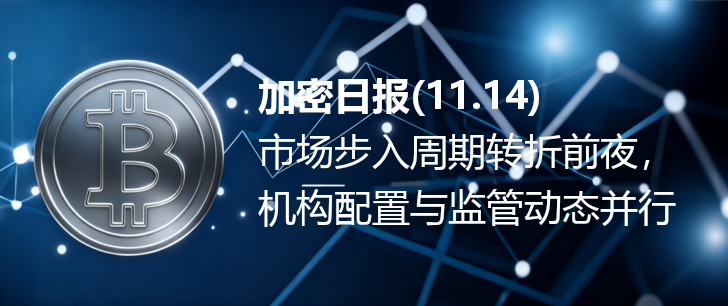
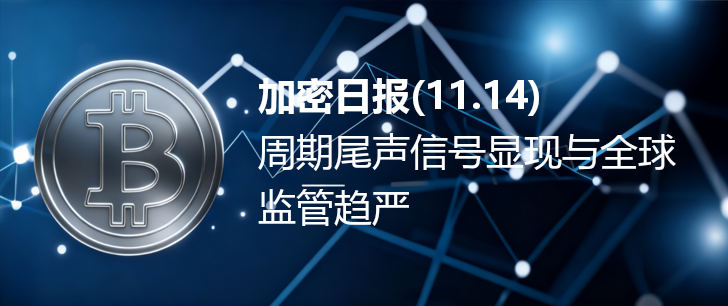
daily_news

Changed region(s): [[0.3324, 0.6176, 0.9368, 0.7353], [0.3324, 0.4412, 0.9368, 0.5588]]

diff --git a/files/latest_summary.md b/files/latest_summary.md
@@ -1,28 +1,25 @@
-### 一、比特币市场周期分析与机构配置建议
+### 一、市场分析与周期预测
 **总结**：
-1. 摩根士丹利认为当前加密货币周期处于秋季尾声，或即将迎来转折，秋季象征获利时机，预计11月30日前后结束，宏观层面M2货币供应周期与比特币价格高度相关，建议投资者根据风险偏好配置0-4%加密货币资产。
-2. 该分析基于季节模型，结合宏观经济指标（如M2货币供应）和监管进展（如《天才法案》规范稳定币），指出机构投资者参与度提升是市场重要变化。
+1. 摩根士丹利认为加密货币周期处于“秋季”尾声，宏观层面与M2货币供应周期高度相关，秋季通常在11月30日前后结束，机构建议投资者配置0-4%的加密货币资产。
+2. 当前比特币价格维持在10万美元关口，市场恐惧与贪婪指数降至15，创半年新低，零售投资者已离场，分析师认为关键利益相关者可能收购抛售币种并推动价格上涨。
 **参考**：
 - [大摩：比特币正处于「秋季」尾声 加密货币周期或将迎来转折](https://cryptonews.com/cn/news/morgan-stanley-bitcoin-is-nearing-the-end-of-autumn/)
+- [比特币维持10万美元关口，市场恐惧指数降至15创半年新低](https://www.binance.com/zh-CN/square/post/32335676392050)
 
-### 二、比特币机构持仓与采用进展
+---
+
+### 二、机构与企业采用
 **总结**：
-1. 埃默里大学通过Grayscale产品增加比特币持仓，涉及5200万美元投资，显示机构对加密货币的持续配置意愿，进一步推动比特币纳入传统投资组合。
-2. 该机构采用案例反映了加密货币在机构资产配置中的接受度提升，与监管框架明朗化（如ETF进展）共同促进市场发展。
+1. 埃默里大学增加比特币持仓，投入5200万美元通过灰度比特币产品配置，体现机构对加密货币的持续采用，降低了机构投资者参与门槛。
 **参考**：
 - [比特币（BTC）采用新闻：埃默里大学增加持仓](https://www.coindesk.com/zh/markets/2025/11/13/emory-doubles-down-on-bitcoin-with-usd52m-grayscale-bet)
 
-### 三、比特币价格震荡与市场情绪变化
-**总结**：
-1. 比特币价格维持在10万美元关口，市场恐惧与贪婪指数降至15/100，处于极度恐惧区，为半年新低，反映零售投资者离场迹象，市场情绪接近转折点。
-2. 尽管美国政府停摆结束对市场影响有限，但市场对流动性和宏观经济的担忧仍主导情绪，分析师认为关键利益相关者可能收购抛售币种推动价格上涨。
-**参考**：
-- [比特币维持10万美元关口，市场恐惧指数降至15创半年新低](https://www.binance.com/zh-CN/square/post/32335676392050)
+---
 
-### 四、数字资产国库（DAT）公司监管与行业动态
+### 三、数字资产国库（DAT）公司监管与解析
 **总结**：
-1. 日本拟推行对数字资产国库（DAT）公司的额外审计和收紧借壳上市规则，以加强监管，防范市场风险，类似Metaplanet等DAT公司因高波动资产持仓导致股价下跌的案例引发监管关注。
-2. 针对顾问的解析指出，DAT公司作为公开上市公司通过持有加密货币提供敞口，但存在溢价/折价、杠杆使用和监管风险，与现货ETF对比显示其结构差异和风险特征。
+1. 日本拟收紧对数字资产国库（DAT）公司的监管，推行额外审计、收紧借壳上市规则，以提高财报透明度、保护投资者利益，此前多家DAT公司因重仓比特币导致股价大幅下跌。
+2. 数字资产国库（DAT）公司作为公开上市公司，通过持有大量加密货币并尝试杠杆操作提升股东价值，顾问评估时需关注国库组合透明度、杠杆水平及溢价/折价情况，与现货ETF相比风险更高，溢价波动可能导致股价大幅变动。
 **参考**：
 - [亚洲地区收紧DAT公司监管日本拟推行额外审计、收紧借壳上市规则](https://cryptonews.com/cn/news/asia-tightens-dat-oversight-japan-extra-audits-backdoor-listing-rules/)
 - [为顾问提供的加密货币：数字资产金库](https://www.coindesk.com/zh/coindesk-indices/2025/11/12/crypto-for-advisors-digital-asset-treasuries)

diff --git a/files/latest_summary_cleaned.md b/files/latest_summary_cleaned.md
@@ -1,12 +1,10 @@
-### 一、比特币市场周期分析与机构配置建议
-1. 摩根士丹利认为当前加密货币周期处于秋季尾声，或即将迎来转折，秋季象征获利时机，预计11月30日前后结束，宏观层面M2货币供应周期与比特币价格高度相关，建议投资者根据风险偏好配置0-4%加密货币资产。
-2. 该分析基于季节模型，结合宏观经济指标（如M2货币供应）和监管进展（如《天才法案》规范稳定币），指出机构投资者参与度提升是市场重要变化。
-### 二、比特币机构持仓与采用进展
-1. 埃默里大学通过Grayscale产品增加比特币持仓，涉及5200万美元投资，显示机构对加密货币的持续配置意愿，进一步推动比特币纳入传统投资组合。
-2. 该机构采用案例反映了加密货币在机构资产配置中的接受度提升，与监管框架明朗化（如ETF进展）共同促进市场发展。
-### 三、比特币价格震荡与市场情绪变化
-1. 比特币价格维持在10万美元关口，市场恐惧与贪婪指数降至15/100，处于极度恐惧区，为半年新低，反映零售投资者离场迹象，市场情绪接近转折点。
-2. 尽管美国政府停摆结束对市场影响有限，但市场对流动性和宏观经济的担忧仍主导情绪，分析师认为关键利益相关者可能收购抛售币种推动价格上涨。
-### 四、数字资产国库（DAT）公司监管与行业动态
-1. 日本拟推行对数字资产国库（DAT）公司的额外审计和收紧借壳上市规则，以加强监管，防范市场风险，类似Metaplanet等DAT公司因高波动资产持仓导致股价下跌的案例引发监管关注。
-2. 针对顾问的解析指出，DAT公司作为公开上市公司通过持有加密货币提供敞口，但存在溢价/折价、杠杆使用和监管风险，与现货ETF对比显示其结构差异和风险特征。
+### 一、市场分析与周期预测
+1. 摩根士丹利认为加密货币周期处于“秋季”尾声，宏观层面与M2货币供应周期高度相关，秋季通常在11月30日前后结束，机构建议投资者配置0-4%的加密货币资产。
+2. 当前比特币价格维持在10万美元关口，市场恐惧与贪婪指数降至15，创半年新低，零售投资者已离场，分析师认为关键利益相关者可能收购抛售币种并推动价格上涨。
+
+### 二、机构与企业采用
+1. 埃默里大学增加比特币持仓，投入5200万美元通过灰度比特币产品配置，体现机构对加密货币的持续采用，降低了机构投资者参与门槛。
+
+### 三、数字资产国库（DAT）公司监管与解析
+1. 日本拟收紧对数字资产国库（DAT）公司的监管，推行额外审计、收紧借壳上市规则，以提高财报透明度、保护投资者利益，此前多家DAT公司因重仓比特币导致股价大幅下跌。
+2. 数字资产国库（DAT）公司作为公开上市公司，通过持有大量加密货币并尝试杠杆操作提升股东价值，顾问评估时需关注国库组合透明度、杠杆水平及溢价/折价情况，与现货ETF相比风险更高，溢价波动可能导致股价大幅变动。
